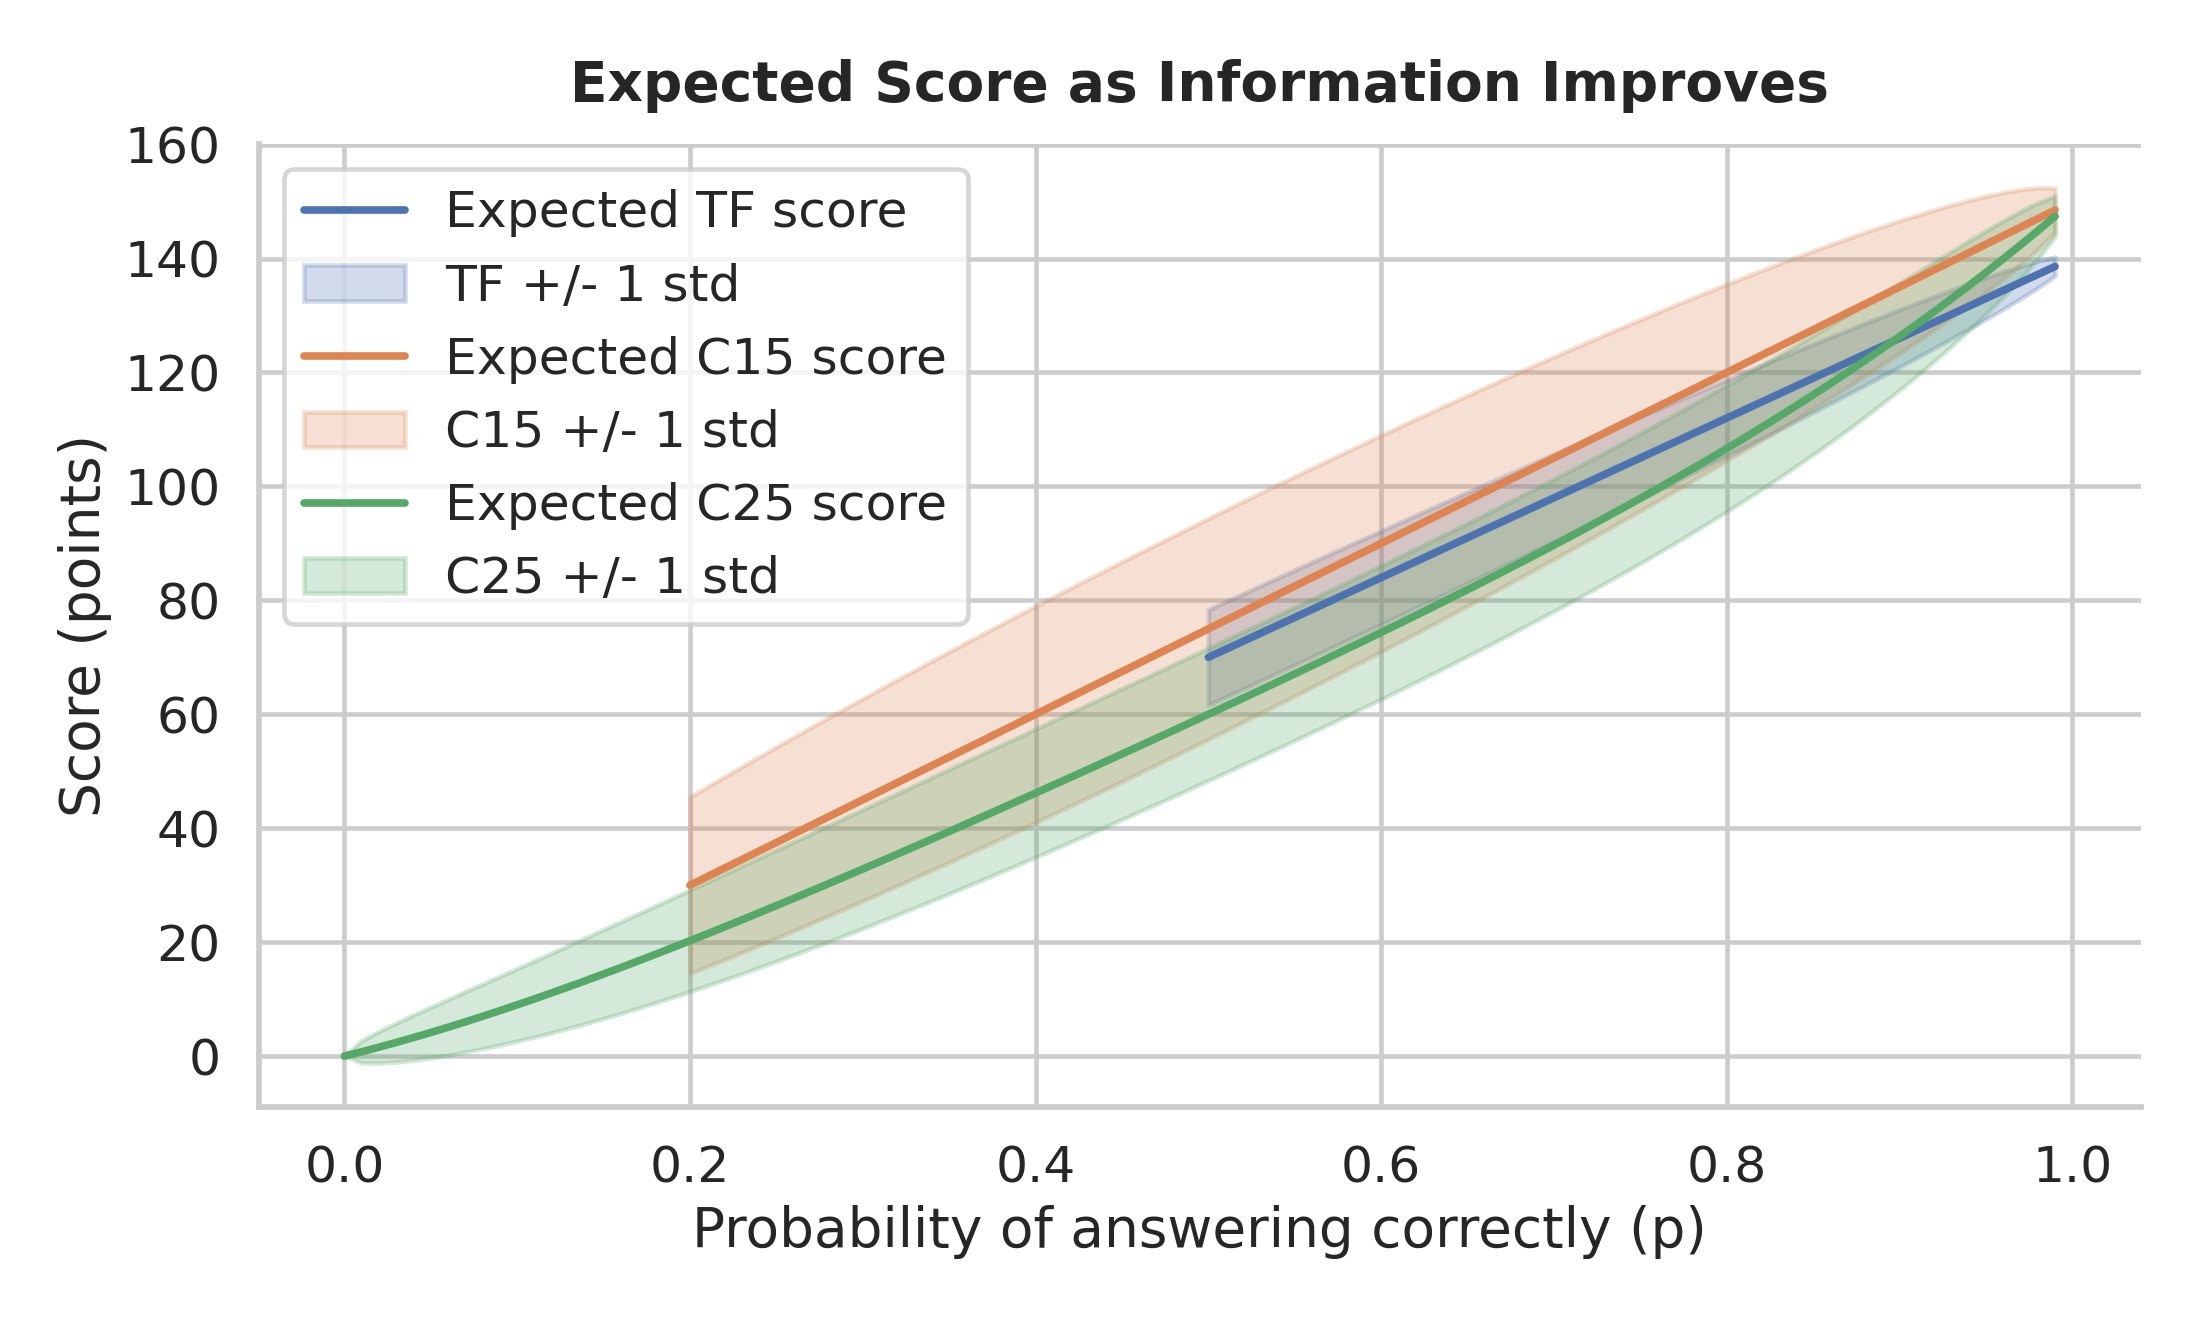
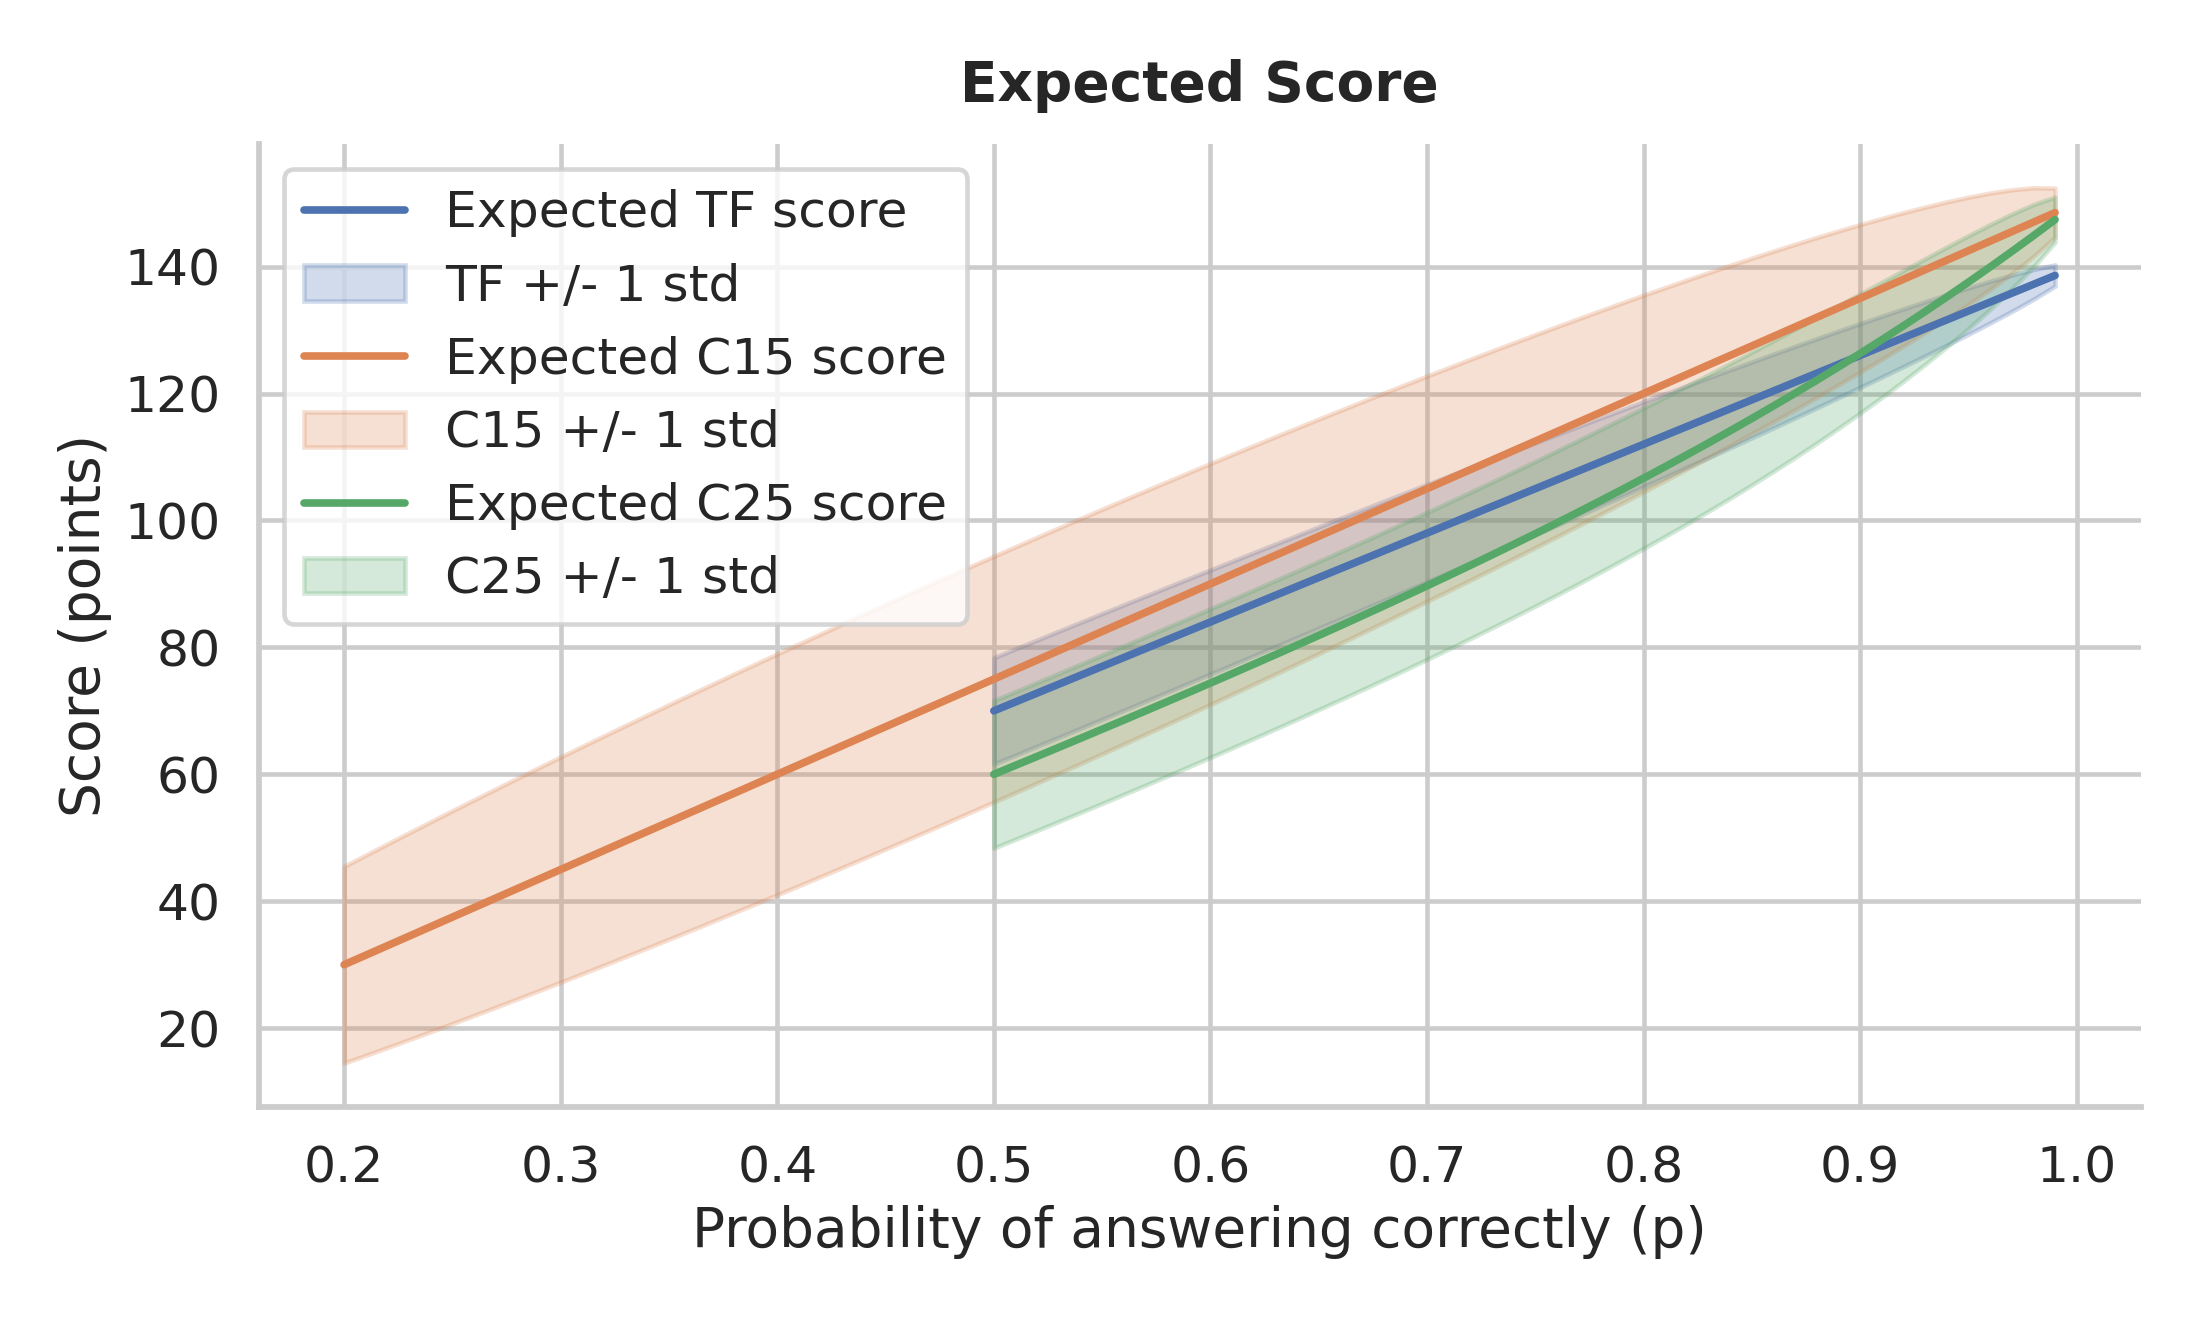
finish 3.1.1

diff --git a/README.md b/README.md
@@ -2,11 +2,16 @@
 
 ## Purpose
 
-Assuming the reader of this document has a solid technical background, I would recommend spending no more than 20 hours in total preparing for this exam and focusing the rest of your time on real work. By carefully studying the structure of the test and fully understanding the principles of entropy, a strategic test taker should be able to maximally exploit the information content of questions in any exam.
+Assuming the reader of this document has a solid technical background, I would recommend spending no more than 20 hours in total preparing for this exam and focusing the rest of your time on real work. By carefully studying the structure of the test and fully understanding the principles of entropy, a strategic test taker should be able to maximally exploit the information content of the questions in this exam.
 
 <span style="color:red;">
 "It remains that, from the same principles, I now demonstrate the frame of the System of the JSDA Class 1 exam." -- not by Isaac Newton
 </span>
+
+## Advice
+Advice 1: Spend more than 80% of your study time on Derivatives Trading, Equity Operations, and Bond Operations.
+
+Advice 2: The 5-choice questions are much more important than the True or False questions.
 
 ## Draft Outline
 
@@ -15,6 +20,7 @@ Assuming the reader of this document has a solid technical background, I would r
    1. [The random guesser](#random-guesser)
    2. [The informed guesser](#informed-guesser)
 3. [Entropy](#entropy)
+   1. [What is entropy? ](#What-is-entropy)
 
 <a id="overview"></a>
 
@@ -62,13 +68,15 @@ Question type notation:
 
 
 Now, after looking at the table, one conclusion becomes immediately clear: Derivatives Trading, Equity Operations, Bond Operations, and Association Articles and Rules are the four most important sections.
-<span style="color:red;"><strong>Advice 1.1: Spend more than 80% of your study time on Derivatives Trading, Equity Operations, and Bond Operations.</strong></span>
+
+<span style="color:red;"><strong>Advice 1: Spend more than 80% of your study time on Derivatives Trading, Equity Operations, and Bond Operations.</strong></span>
+
 At this point, you may naturally have two questions:
 
 - What about the other sections?
 - What about Association Articles and Rules, since I just said that it is one of the most important sections?
 
-Don't worry. I will teach you the techniques for the other sections later. But first, let us look at why Association Articles and Rules is not as important as it seems. By investigating this, we will learn something important about the exam.
+Don't worry. I will teach you techniques for the other sections later. But first, let us look at why Association Articles and Rules is not as important as it seems. By investigating this, we will learn something important about the exam.
 
 <a id="sensitivity"></a>
 
@@ -96,33 +104,71 @@ So, using the question counts from the overview table:
 | C25 | 150 | 60.00 +/- 11.62 | 40.00% +/- 7.75% |
 | **Total** | **440** | **160.00 +/- 21.10** | **36.36% +/- 4.79%** |
 
-Now add these three distributions together. The exam has 440 total points, so the 70% passing line is 308 points. The exact probability that a pure random guesser passes is:
+Now add these three distributions together. The exam has 440 total points, so the 70% passing line is 308 points. The exact probability that a pure random guesser passes is 8.23e-11, or about 0.00000000823%.
 
-<span style="color:red;"><strong>Probability of passing by pure random guessing: 8.23e-11, or about 0.00000000823%.</strong></span>
-
-As one can clearly observe from the calculation above, passing the exam as a random guesser is astronomically unlikely. Overall, we can see that C15 is the most important question type, simply because choosing one answer out of five is difficult, which makes the expected relative score very low. At the same time, it is an all-or-nothing question type with a lot of weight. This explains the second question left open in Section 1. In part, Association Articles and Rules questions are not as important because they are TF and C25 questions, which are relatively favorable to a random guesser. And we will soon see that this is not the only reason. Actual test takers are not random guessers, especially in sections such as Association Articles and Rules, where prior probability and common sense play an important role.
+As one can clearly observe from the calculation above, passing the exam as a random guesser is astronomically unlikely. Overall, we can see that C15 is the most important question type, simply because choosing one answer out of five is difficult, which makes the expected relative score very low. At the same time, it is an all-or-nothing question type with a lot of weight. This explains the second question left open in Section 1. In part, Association Articles and Rules questions are not as important because they are TF and C25 questions, which are relatively favorable to a random guesser. We will soon see that this is not the only reason. Actual test takers are not random guessers, especially in sections such as Association Articles and Rules, where prior probability and common sense play an important role.
 <!-- ![Exact random-guesser score distributions](images/random_guesser_question_type_distributions.png) -->
 
 <a id="informed-guesser"></a>
 
 ### 2.2 The informed guesser
 
-In Section 2.1, we worked out the special case of a random guesser. Now we proceed to develop a much more realistic model, in which the test taker is assumed to possess some information about the exam material. For those familiar with information theory, it is easy to see that we can intuitively represent the examinee's information using $p$, the rate at which the examinee is capable of choosing the right answer.
+In Section 2.1, we worked out the special case of a random guesser. Now we proceed to develop a much more realistic model, in which the test taker is assumed to possess some information about the exam material. For those familiar with information theory, it is easy to see that we can intuitively represent the examinee's information using $p$, the rate at which the examinee is able to choose the right answer.
 
 For starters, let us look at TF questions and assume that the examinee's probability of answering correctly is $p_{tf}$, instead of exactly $1/2$, which is the random-guesser case. Of course, we expect $p_{tf} \geq 1/2$. If not, intelligent examinees would simply invert their answers by choosing the opposite of what they believe to be right. In other words, it takes the same amount of information to be consistently wrong as it does to be consistently right. For any value of $p_{tf}$, we can work out the binomial distribution of the total number of TF questions answered correctly and hence derive the distribution of the TF score. Next, we evaluate the score distribution for C15 on the same plot. C15 is easy because it simply assigns a probability $p_{15}$ between `0.2` and `1` to choosing the correct answer.
 
 C25 is harder to model. In practice, its five choices often behave like five TF statements bundled into one question. Let us assume that the examinee can judge each statement correctly with probability $p_{25}$: true statements are recognized as true, and false statements are recognized as false, each with probability $p_{25}$.
 
-Each C25 question has 5 statements, of which 2 are true and 3 are false. Therefore, the expected number of statements the examinee believes to be true is roughly `2 * p_25 + 3 * (1 - p_25)`. This number may be smaller or larger than the 2 choices the examinee must submit. If fewer than 2 statements look true, the examinee selects those statements and randomly fills the remaining slot. If more than 2 statements look true, the examinee randomly selects 2 from the statements they believe are true.
+Each C25 question has 5 statements, of which 2 are true and 3 are false. Therefore, the expected number of statements the examinee believes to be true is roughly `2 * p_25 + 3 * (1 - p_25)`. This number may be smaller or larger than the 2 choices the examinee must submit. If fewer than 2 statements look true, the examinee selects those statements and randomly fills the remaining slot. If more than 2 statements look true, the examinee randomly selects 2 from the statements they believe are true. The plot of the expected score with respect to $p$ is shown below, where $p$ starts from the random-guess baseline.
 
 ![TF, C15, and C25 informed-guesser sensitivity](images/tf_c15_c25_informed_guesser_sensitivity.png)
 
-Now we can ask a more useful question: if $p$ improves by 1 percentage point, how many extra points should we expect? For each value of $p$, we calculate this as `expected_score(p + 0.01) - expected_score(p)`. The plot below shows the expected point gain only, which is the cleanest way to compare which question type is most sensitive to a small improvement in judgment.
+Now we can ask a more useful question: if $p$ improves by 1 percentage point, how many extra points should we expect? For each value of $p$, we calculate this as `expected_score(p + 0.01) - expected_score(p)`. The plot below shows the expected point gain only, which is the cleanest way to compare which question type is most sensitive to a small improvement in judgment. For TF and C15, it is easy to see that the sensitivity is flat, whereas C25 exhibits non-linear behavior. 
 
 ![Question type point sensitivity](images/question_type_point_sensitivity.png)
+
+By now, I hope I have convinced the reader that both C15 and C25 carry more weight than TF. In terms of sensitivity, it is also more efficient to study them, especially C25, since it offers nonlinear improvement. To summarize:
+
+<span style="color:red;"><strong>Advice 2:  5-choice questions are much more important than the True or False questions. </strong></span>
 
 <a id="entropy"></a>
 
 ## 3. Entropy
+
+In this chapter, I will first give you a lecture on what entropy is using real-world examples. You will understand why hot coffee tends to get cold, why things tend to break down instead of functioning, and why even equally talented people in fair societies inevitably create enormous wealth discrepancies over the long run.
+
+Subsequently, we will see how to use entropy in the preparation of this test.
+
+<a id="What-is-entropy"></a>
+### 3.1 What is entropy?
+
+Entropy can be defined in several ways: Boltzmann (statistical mechanics), Shannon (information theory), and Jaynes (Bayesian statistics). A knowledgeable reader will of course know that the three different approaches above are mutually equivalent and often borrow terms from one another. In this subsection, we will attempt to give a short description using the Boltzmann-like picture.
+
+In one sentence, I wish to define entropy as "a measurement of disorder/randomness" and information as "a measurement of order with respect to disorder/randomness". To illustrate this, let us focus on the following example.
+
+<a id="coinflip"></a>
+#### 3.1.1  The coin flip
+Let us say we play a game of coin-flipping: if it is heads (denoted by +), you receive one dollar. If it is tails (denoted by -), you pay one dollar. Are you scared to gamble under such conditions? Of course not. This is a fair game, and you know that on average, your expected payoff is $E = 0$. You are probably thinking something like this: "If I play a few games, I might get unlucky and lose some money. But as long as I play a huge number of games, I should be roughly winning half and roughly losing half." But why is that?
+
+Let us examine the idea of "fairness": it means that on each flip, the outcome is independent and 50-50. If we play six games, the outcome could be represented by a string such as "+-++-+", where one wins four games and loses two. Now fairness demands that any such possible string is equally likely to happen. Otherwise, the game is rigged toward certain outcomes. Let us call such strings <span style="color:red">microstates</span>, micro in the sense that the string specifies all the flips exactly and therefore corresponds to only one outcome. On the contrary, when a person is in the state of "winning one dollar overall," we call this the <span style="color:red">macrostate</span>. Obviously, it is macro in the sense that there are multiple ways to win two dollars: "+-++-+", "++++--", "++--++", etc.
+
+It is then obvious that macrostates correspond to one or more microstates, where the latter requires more information to specify. Recall the idea of fairness: all microstates must be equally likely in our coin flips. The question is: how much more likely is it for you to be net zero at the end of the sixth game than to be down 6 dollars?
+
+To lose six dollars in a game of six coin flips, you must lose all six rounds. So the macrostate of "-6$" has only one microstate. But to be net zero, there are many more possibilities. As long as you win three games in total, you will be net zero. Now how many ways are there for you to win 3 games? The answer is 20. And since each microstate is equally likely to occur, we see that the macrostate of net zero is 20 times more likely than -6$. Denote the number of microstates in a macrostate as $\Omega$, and let $i, j$ be labels of a microstate. We then have:
+
+$$\frac{P(0)}{P(-6)} = \frac{\sum_{i = 0}^{\Omega(0)} p(i)}{\sum_{j = 0}^{\Omega(-6)} p(j)} = \frac{\Omega(0)}{\Omega(-6)} = \frac{20}{1} = 20$$
+
+
+We see that even though the game is fair, some macrostates are far more likely to occur because they are more "vague": they correspond to more microstates. And as we play more games, this phenomenon gets more exaggerated. Let us define the notional of the game, $N$, as the maximum money at stake. Let us compare how likely the game is to give an outcome near net zero for total numbers of 20, 400, and 2000 games. The results are shown below. We see that the distribution becomes far more concentrated around net zero. This is theoretically intuitive: as more games are played, the number of combinations of microstates near net zero grows much faster than the rest. The reader can investigate the mathematical details separately, derive the binomial distribution we used intensively in the last section, and conclude that the width of the distribution in the following plot shrinks polynomially, with exponent $1/2$.
+
+
+![Normalized payoff distribution for 20, 400, and 2000 games](images/coin_flip_normalized_payoff.png)
+
+
+To conclude, if you play more and more games, you will almost inevitably land somewhere near the net-zero center. And this "number of microstates" is what we call entropy. From the Boltzmann perspective, this is all just combinatorics. From Shannon's information theory perspective, a higher entropy means more randomness and less order. In the example given above, the macrostate of net zero has many more microstates and thus requires more information to specify: it is more random and chaotic because it can be any of many microstates. It has less order because -6$ means "------", which is very orderly, while net zero often means something like "+--+-++", which is not very neat, is it?
+
+In other words, we propose that in the long term, things will NATURALLY and inevitably drift toward a state with higher entropy: more chaos, more randomness, and less order.
+
+# Elementary particles! and indistinguishability
 
 ## Next Step